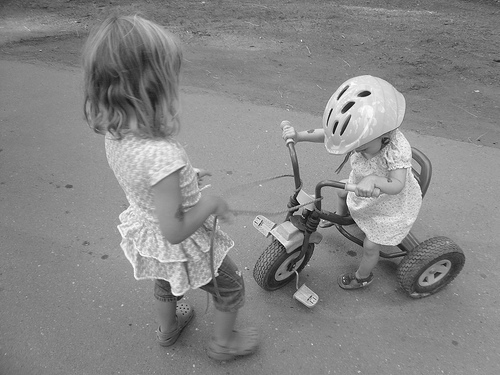
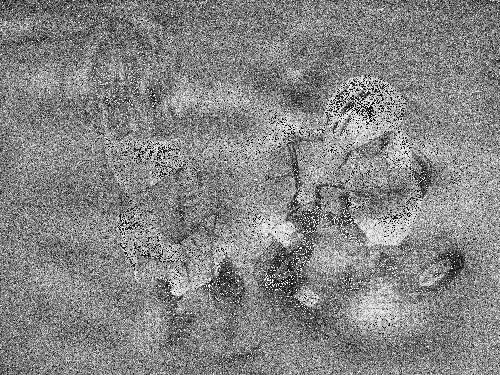
add argument - perturbation_const

diff --git a/main.py b/main.py
@@ -85,11 +85,14 @@ def main(args):
             print('input images shape ', input_images.shape)
             print('target image shape ', target_image.shape)
 
-            attack = hash_attack(sess, model, args['batch_size'], args['targeted'], args['learning_rate'], args['binary_steps'], args['max_iteration'], args['print_unit'], args['init_const'], args['use_resize'], args['resize_size'], args['use_grayscale'], args['adam_beta1'], args['adam_beta2'], args['mc_sample'], args['multi'], args['optimizer'], args['hash'], args['distance_metric'], input_images.shape[1], input_images.shape[2], input_images.shape[3], target_image.shape[0], target_image.shape[1], target_image.shape[2])
+            attack = hash_attack(sess, model, args['batch_size'], args['targeted'], args['learning_rate'], args['binary_steps'], args['max_iteration'], args['print_unit'], args['init_const'], args['use_resize'], args['resize_size'], args['use_grayscale'], args['adam_beta1'], args['adam_beta2'], args['mc_sample'], args['multi'], args['perturbation_const'], args['optimizer'], args['hash'], args['distance_metric'], input_images.shape[1], input_images.shape[2], input_images.shape[3], target_image.shape[0], target_image.shape[1], target_image.shape[2])
 
 
 
             modifier, loss_x, loss_y = attack.attack_batch(input_images, target_image)
+
+            now = datetime.now()
+            data_time = now.strftime("%m_%d_%H_%M")
 
             if args['use_resize'] == True:
                 copy_modifier = np.zeros(modifier.shape, dtype=np.float32)
@@ -101,14 +104,13 @@ def main(args):
 
                 copy_modifier = resize(copy_modifier, (input_images[0].shape), anti_aliasing=False, preserve_range=True)
 
-                gen_image(input_images[0] + copy_modifier).save('test.png')
+                gen_image(input_images[0] + copy_modifier).save(data_time + '.png')
             else:
-                gen_image(input_images[0] + modifier).save("test.png")
+                gen_image(input_images[0] + modifier).save(data_time + ".png")
 
             plt.plot(loss_x, loss_y) 
 
-            now = datetime.now()
-            data_time = now.strftime("%m_%d_%H_%M")
+            
 
             plt.savefig(data_time + '_' + str(i) + '.png')
             plt.clf()
@@ -141,6 +143,7 @@ if __name__ == "__main__":
     parser.add_argument("--adam_beta2", type=float, default=0.999)
     parser.add_argument("-lr", "--learning_rate", type=float, default=0.01)
     parser.add_argument("-b", "--batch_size", type=int, default=128)
+    parser.add_argument("-pc", "--perturbation_const", type=int, default=10)
     parser.add_argument("-mi", "--max_iteration", type=int, default=1000)
 
     parser.add_argument("--gpu", "--gpu_machine", default="0")

diff --git a/attack_hash.py b/attack_hash.py
@@ -89,7 +89,7 @@ class hash_attack:
                  targeted=True, learning_rate=0.1,
                  binary_search_steps=1, max_iterations=4000, print_unit=1,
                  initial_loss_const=1, use_resize=False, resize_size=32, use_grayscale=False, 
-                 adam_beta1=0.99, adam_beta2=0.9999, mc_sample = 2, multi_imgs_num=1, 
+                 adam_beta1=0.99, adam_beta2=0.9999, mc_sample = 2, multi_imgs_num=1, perturbation_const=10,
                  solver="adam", hash_metric="phash",
                  dist_metric="l2dist", input_x=288, input_y=288, input_c=1, target_x=288, target_y=288, target_c=3):
         self.sess = sess
@@ -234,7 +234,7 @@ class hash_attack:
             self.solver = momentum
         self.momentum = 0.5
         self.perturbation_pixel = 0.004
-        self.perturbation_const = 10
+        self.perturbation_const = perturbation_const
         self.p = np.array([np.random.normal(loc = 0, scale = self.perturbation_pixel, size = self.resized_shape) for j in range(self.mc_sample // 2)])
 
         self.delta = 0.49999 / (mc_sample / 2)

diff --git a/command.py b/command.py
@@ -6,10 +6,8 @@ os.system('cd {}'.format(os.getcwd()))
 
 # --use_resize --resize_size 64 
 
-lr = 0.04
+lr = 0.5
 for i in range(6):
     
-    os.system('python main.py -i 17 -n 2 -mu 1 -mc 64 --targeted -hash photoDNA -dist l2dist --optimizer momentum --use_grayscale --batch 1 -lr ' + str(lr) + ' -mi 20000')
-
-    lr *= 2
+    os.system('python main.py -i 17 -n 2 -mu 1 -mc 64 --targeted -hash photoDNA -dist l2dist --optimizer momentum --use_grayscale --batch 1 -lr 0.5 -mi 20000')
 
